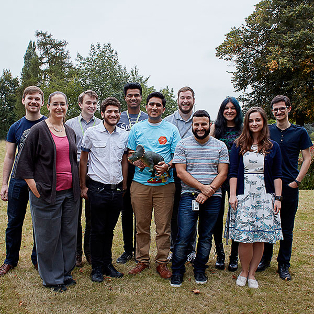
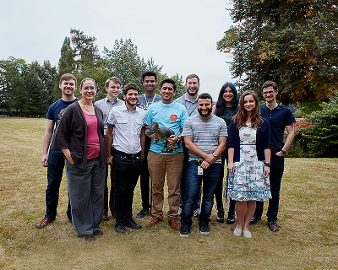
Updated stock photos. Fixes #311.

diff --git a/portal/templates/redesign/play_new.html b/portal/templates/redesign/play_new.html
@@ -34,12 +34,12 @@
     <div class="row row--small homepage-info">
         <div class="col-sm-9 col-center">
             <div class="col-sm-4">
-                <img title="Teaching Tools" alt="Teaching Tools" src='{% static "portal/img_new/teaching_tools.png" %}'>
+                <img title="Teaching Tools" alt="Teaching Tools" src='{% static "portal/img_new/teaching_tools.jpg" %}'>
                 <h3>Free teaching tools</h3>
                 <p class="body-text">Free teaching resources, lesson plans and much more. You can even track your student&rsquo;s progress with our class tracker.</p>
             </div>
             <div class="col-sm-4">
-                <img title="Fun game" alt="Fun game" src='{% static "portal/img_new/fun_game.png" %}'>
+                <img title="Fun game" alt="Fun game" src='{% static "portal/img_new/a_fun_game_for_students.jpg" %}'>
                 <h3>A fun game for students</h3>
                 <p class="body-text">You can learn to become a coding superhero, amaze your friends with your high scores.</p>
             </div>

diff --git a/portal/templates/redesign/teach_new/onboarding_complete.html b/portal/templates/redesign/teach_new/onboarding_complete.html
@@ -77,7 +77,7 @@
     <div class="row row--regular homepage-info">
         <div class="col-sm-9 col-center is-flex">
             <div class="col-sm-4">
-                <img title="Teaching resources" alt="Resources image" src='{% static "portal/img_new/teaching_resources.png" %}'>
+                <img title="Teaching resources" alt="Resources image" src='{% static "portal/img_new/teaching_resources.jpg" %}'>
                 <h3>Teaching resources</h3>
                 <p class="body-text">We&rsquo;ve designed a comprehensive range of teaching resources including session plans, pupil resources and assessment tools.</p>
                 <p class="body-text">There are also videos to help you and your class understand what you and your class will be learning next.</p>

diff --git a/portal/templates/redesign/help-and-support_new.html b/portal/templates/redesign/help-and-support_new.html
@@ -22,7 +22,7 @@
             find the answers, please <a href="#contact">contact us</a>. One of the Code for Life team will get back to you and resolve your issues.</p>
     </div>
     <div class="col-sm-5">
-        <div class="banner--picture"><div class="banner--picture__inside1"><div class="banner--picture__inside2 banner--picture--about"></div></div></div>
+        <div class="banner--picture"><div class="banner--picture__inside1"><div class="banner--picture__inside2 banner--picture--help"></div></div></div>
     </div>
 </div>
 

diff --git a/portal/templates/redesign/teach_new/materials_new.html b/portal/templates/redesign/teach_new/materials_new.html
@@ -46,7 +46,7 @@
             National Computing Curriculum right through their primary education.</p>
     </div>
     <div class="col-sm-5">
-        <div class="banner--picture"><div class="banner--picture__inside1"><div class="banner--picture__inside2 banner--picture--educate"></div></div></div>
+        <div class="banner--picture"><div class="banner--picture__inside1"><div class="banner--picture__inside2 banner--picture--tools"></div></div></div>
     </div>
 </div>
 <div class="sub-nav sub-nav--teacher row--small">

diff --git a/portal/templates/redesign/terms_new.html b/portal/templates/redesign/terms_new.html
@@ -41,7 +41,7 @@
         <h1 class="banner__text--primary">Terms of use</h1>
     </div>
     <div class="col-sm-6">
-        <div class="banner--picture"><div class="banner--picture__inside1"><div class="banner--picture__inside2 banner--picture--educate"></div></div></div>
+        <div class="banner--picture"><div class="banner--picture__inside1"><div class="banner--picture__inside2 banner--picture--terms"></div></div></div>
     </div>
 </div>
 <div class="sub-nav sub-nav--teacher row--small">

diff --git a/portal/static/portal/sass/styles.scss b/portal/static/portal/sass/styles.scss
@@ -477,6 +477,22 @@ section {
   background-image: url('../img_new/about_us_hero.jpg');
 }
 
+.banner--picture--help {
+  background-image: url('../img_new/help_and_support_hero.jpg');
+}
+
+.banner--picture--terms,
+.banner--picture--tools {
+  background-image: url('../img_new/teaching_resources.jpg');
+}
+
+.logo {
+  content: url('../img_new/logo_c4l_hexa.png');
+  position: fixed;
+  top: 10px;
+  z-index: 3;
+}
+
 .glyphicon {
   @include _font-size(30px);
   font-weight: 500;
